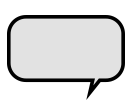
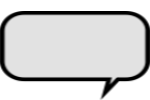
fix menu

Changed region(s): [[0.0, 0.09, 1.0, 1.0]]

diff --git a/index.html b/index.html
@@ -23,7 +23,7 @@
             <div class="blocknote-head"></div>
             <div class="blocknote-body">
 
-                <div class="row">
+                <div class="row leftright-padding">
                     <div class="col-md-4 center-block">
 
                         <div class="dialog">
@@ -33,7 +33,7 @@
                     <div class="col-md-4 center-block">
 
                         <div class="dialog">
-                            <a href="portfolio.html">Портфоилио</a>
+                            <a href="portfolio.html">Портфолио</a>
                         </div>
 
                     </div>

diff --git a/css/mystyle.css b/css/mystyle.css
@@ -11,15 +11,16 @@
 .blocknote-body {
     background-color: #faf9f5;
     min-height: 700px;
+    padding-top: 20px;
 }
 
 .dialog {
-    width: 133px;
+    width: 150px;
     background-repeat: no-repeat;
-    background-image: url("../img/thumbnails/dialog.png");
+    background-image: url("../img/dialog.png");
     height: 100px;
     margin: inherit;
-    padding-top: 35px;
+    padding-top: 32px;
     text-align: center;
     font-size: 16pt;
     font-weight: bold;

diff --git a/contacts.html b/contacts.html
@@ -26,7 +26,7 @@
         <div class="col-md-12">
             <div class="blocknote-head"></div>
             <div class="blocknote-body">
-                <div class="row">
+                <div class="row leftright-padding">
                     <div class="col-md-4 center-block">
                         <div class="dialog">
                             <a href="index.html">Главная</a>

diff --git a/grafica.html b/grafica.html
@@ -29,7 +29,7 @@
 
             <div class="blocknote-head"></div>
             <div class="blocknote-body">
-                <div class="row">
+                <div class="row leftright-padding">
                     <div class="col-md-4 center-block">
                         <div class="dialog">
                             <a href="index.html">Главная</a>

diff --git a/painting.html b/painting.html
@@ -28,7 +28,7 @@
 
             <div class="blocknote-head"></div>
             <div class="blocknote-body">
-                <div class="row">
+                <div class="row leftright-padding">
                     <div class="col-md-4 center-block">
                         <div class="dialog">
                             <a href="index.html">Главная</a>

diff --git a/photoshop.html b/photoshop.html
@@ -29,7 +29,7 @@
 
             <div class="blocknote-head"></div>
             <div class="blocknote-body">
-                <div class="row">
+                <div class="row leftright-padding">
                     <div class="col-md-4 center-block">
                         <div class="dialog">
                             <a href="index.html">Главная</a>

diff --git a/risunok.html b/risunok.html
@@ -28,7 +28,7 @@
 
             <div class="blocknote-head"></div>
             <div class="blocknote-body">
-                <div class="row">
+                <div class="row leftright-padding">
                     <div class="col-md-4 center-block">
                         <div class="dialog">
                             <a href="index.html">Главная</a>

diff --git a/verstka.html b/verstka.html
@@ -28,7 +28,7 @@
 
             <div class="blocknote-head"></div>
             <div class="blocknote-body">
-                <div class="row">
+                <div class="row leftright-padding">
                     <div class="col-md-4 center-block">
                         <div class="dialog">
                             <a href="index.html">Главная</a>

diff --git a/yuvelir.html b/yuvelir.html
@@ -28,7 +28,7 @@
 
             <div class="blocknote-head"></div>
             <div class="blocknote-body">
-                <div class="row">
+                <div class="row leftright-padding">
                     <div class="col-md-4 center-block">
                         <div class="dialog">
                             <a href="index.html">Главная</a>

diff --git a/portfolio.html b/portfolio.html
@@ -27,7 +27,7 @@
 
             <div class="blocknote-head"></div>
             <div class="blocknote-body">
-                <div class="row">
+                <div class="row leftright-padding">
                     <div class="col-md-4 center-block">
 
                         <div class="dialog">
